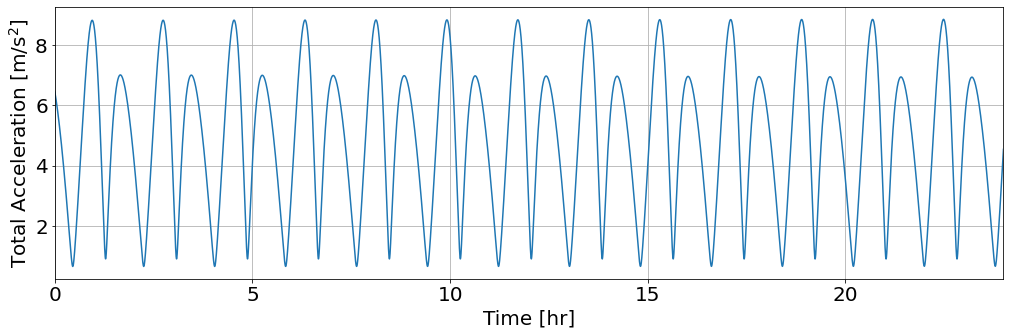
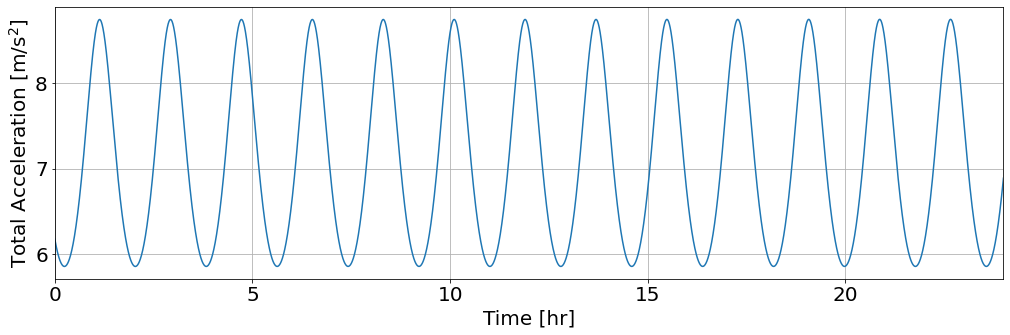
fixed mistake in total acceleration calculation noted by DominicDirkx

Changed region(s): [[0.0307, 0.0597, 1.0, 0.806]]

diff --git a/docs/source/_src_first_steps/simulations/example_application_2.rst b/docs/source/_src_first_steps/simulations/example_application_2.rst
@@ -367,7 +367,7 @@ Let's make some plots to visualize our simulation results. In order to make plot
 
   .. code-block:: python
 
-      total_acceleration_norm = np.sqrt( dependent_variable_list[:,0] ** 2 + dependent_variable_list[:,1] ** 2 + dependent_variable_list[:,1] ** 2 )
+      total_acceleration_norm = np.sqrt( dependent_variable_list[:,0] ** 2 + dependent_variable_list[:,1] ** 2 + dependent_variable_list[:,2] ** 2 )
 
 
   The first step is to make a figure to make your plot in.
